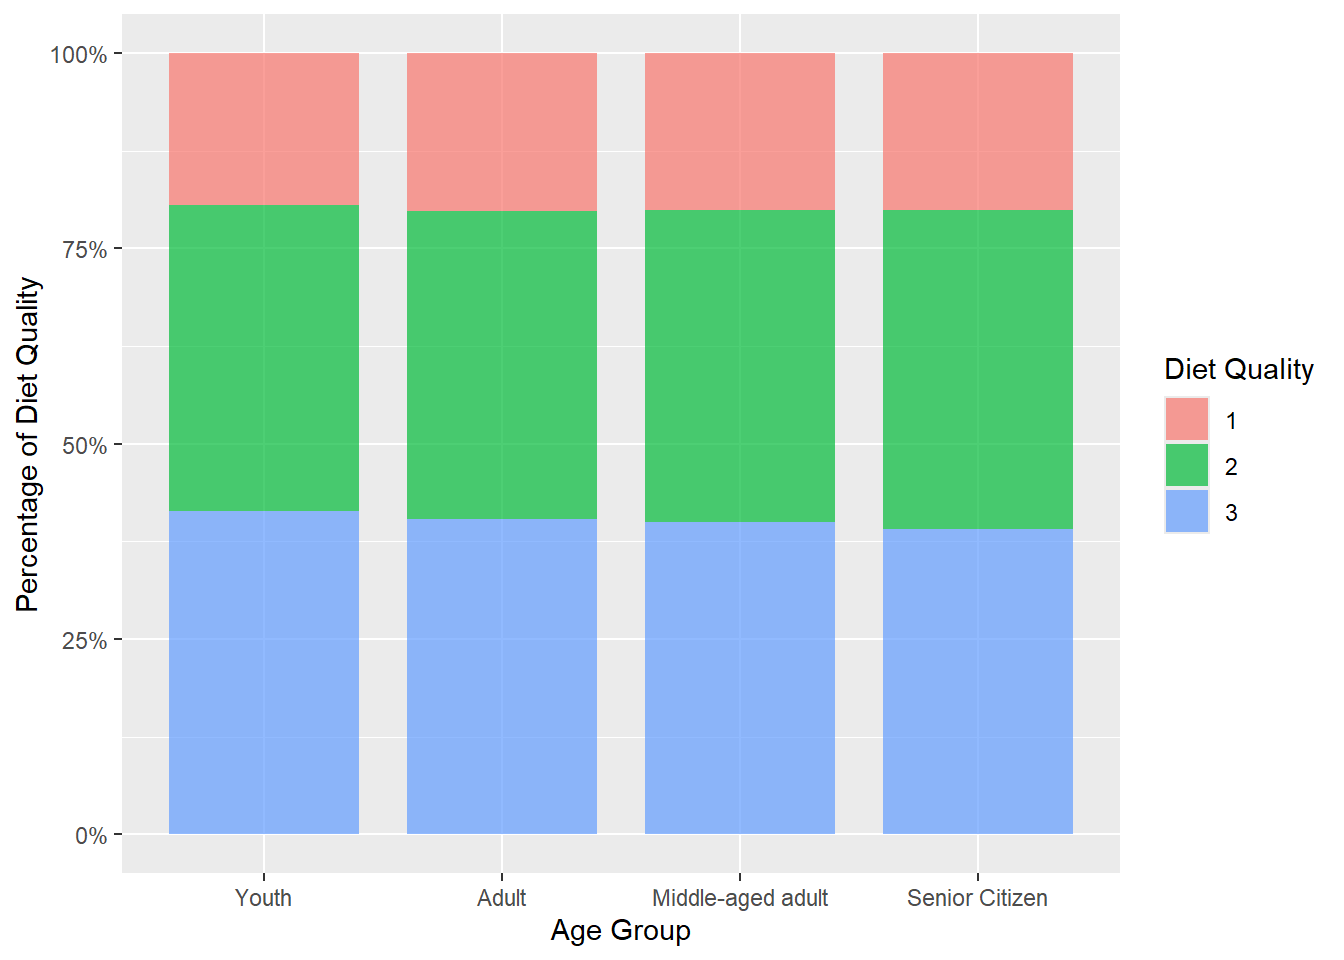
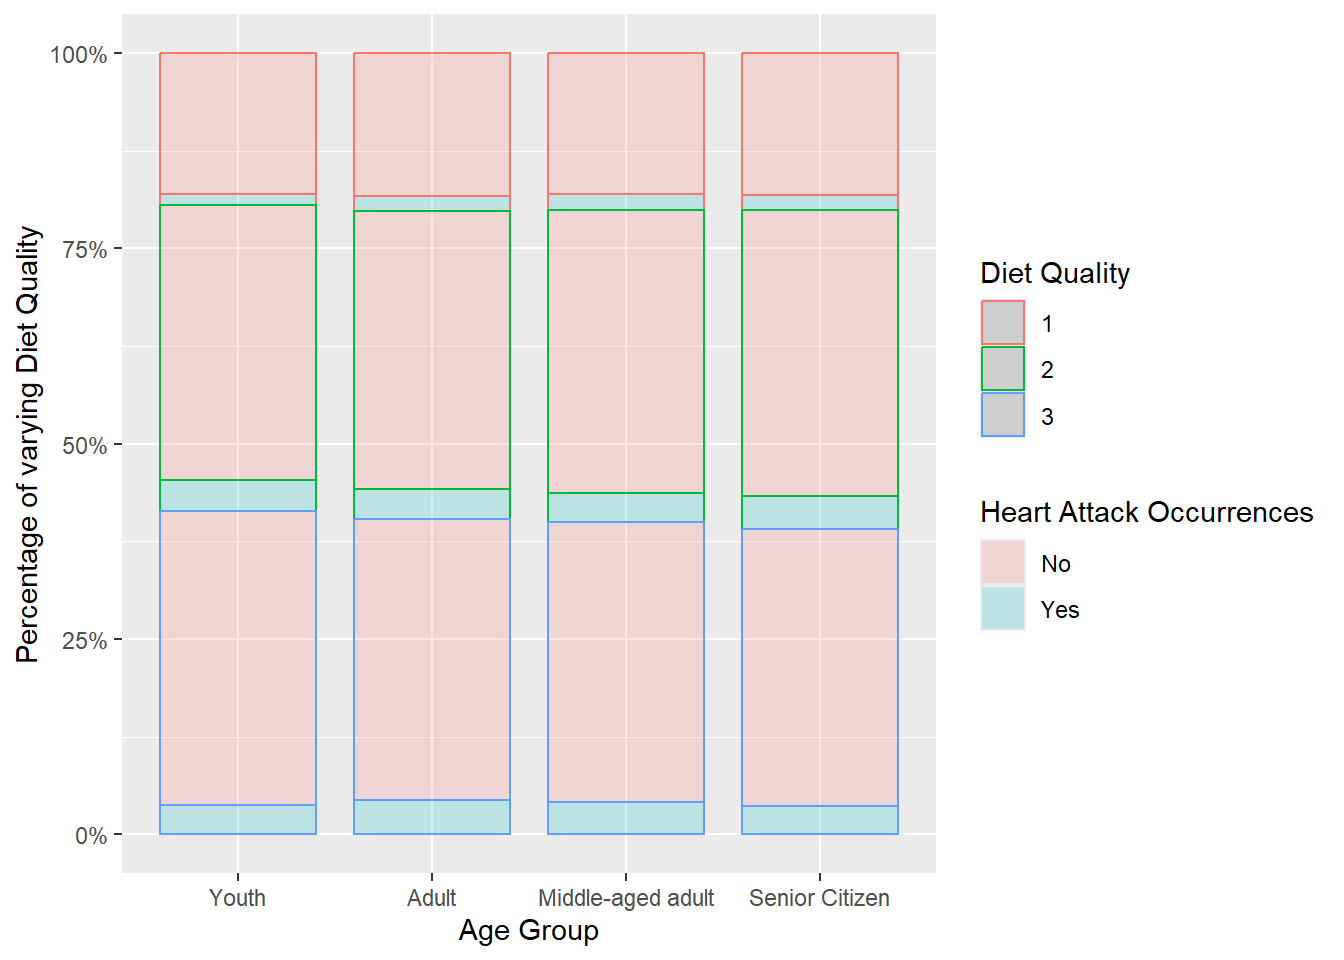
take home exercise 1

diff --git a/_site/Take-Home_Exercise/Take-Home_Exercise_1/Take-Home_Exercise_1.html b/_site/Take-Home_Exercise/Take-Home_Exercise_1/Take-Home_Exercise_1.html
@@ -829,10 +829,10 @@ See codes
 <div class="tab-content">
 <div id="tabset-3-1" class="tab-pane active" role="tabpanel" aria-labelledby="tabset-3-1-tab">
 <div class="cell">
-<div class="sourceCode cell-code" id="cb18"><pre class="sourceCode r code-with-copy"><code class="sourceCode r"><span id="cb18-1"><a href="#cb18-1" aria-hidden="true" tabindex="-1"></a><span class="fu">ggplot</span>(<span class="at">data=</span>binned_data, <span class="fu">aes</span>(<span class="at">x=</span>Age_Group, <span class="at">fill=</span>Smoking_History)) <span class="sc">+</span></span>
-<span id="cb18-2"><a href="#cb18-2" aria-hidden="true" tabindex="-1"></a>  <span class="fu">geom_bar</span>(<span class="at">alpha =</span> <span class="fl">0.7</span>, <span class="at">width=</span> <span class="fl">0.8</span>, <span class="at">stat=</span><span class="st">"count"</span>, <span class="at">position=</span><span class="st">"fill"</span>) <span class="sc">+</span></span>
+<div class="sourceCode cell-code" id="cb18"><pre class="sourceCode r code-with-copy"><code class="sourceCode r"><span id="cb18-1"><a href="#cb18-1" aria-hidden="true" tabindex="-1"></a><span class="fu">ggplot</span>(<span class="at">data=</span>binned_data, <span class="fu">aes</span>(<span class="at">x=</span>Age_Group, <span class="at">color=</span>Smoking_History, <span class="at">fill=</span>Heart_Attack_Occurrence)) <span class="sc">+</span></span>
+<span id="cb18-2"><a href="#cb18-2" aria-hidden="true" tabindex="-1"></a>  <span class="fu">geom_bar</span>(<span class="at">alpha =</span> <span class="fl">0.2</span>, <span class="at">width=</span> <span class="fl">0.8</span>, <span class="at">stat=</span><span class="st">"count"</span>, <span class="at">position=</span><span class="st">"fill"</span>) <span class="sc">+</span></span>
 <span id="cb18-3"><a href="#cb18-3" aria-hidden="true" tabindex="-1"></a>  <span class="fu">scale_y_continuous</span>(<span class="at">labels =</span> scales<span class="sc">::</span>percent) <span class="sc">+</span> <span class="fu">xlab</span>(<span class="st">"Age Group"</span>) <span class="sc">+</span> </span>
-<span id="cb18-4"><a href="#cb18-4" aria-hidden="true" tabindex="-1"></a>  <span class="fu">ylab</span>(<span class="st">"Percentage of Smokers"</span>) <span class="sc">+</span> <span class="fu">labs</span>(<span class="at">fill=</span><span class="st">"Smoker"</span>)</span></code><button title="Copy to Clipboard" class="code-copy-button"><i class="bi"></i></button></pre></div>
+<span id="cb18-4"><a href="#cb18-4" aria-hidden="true" tabindex="-1"></a>  <span class="fu">ylab</span>(<span class="st">"Percentage with Smoking History"</span>) <span class="sc">+</span> <span class="fu">labs</span>(<span class="at">color=</span><span class="st">"Smoking_History"</span>, <span class="at">fill=</span><span class="st">"Heart Attack Occurrences"</span>)</span></code><button title="Copy to Clipboard" class="code-copy-button"><i class="bi"></i></button></pre></div>
 <div class="cell-output-display">
 <div>
 <figure class="figure">
@@ -844,10 +844,10 @@ See codes
 </div>
 <div id="tabset-3-2" class="tab-pane" role="tabpanel" aria-labelledby="tabset-3-2-tab">
 <div class="cell">
-<div class="sourceCode cell-code" id="cb19"><pre class="sourceCode r code-with-copy"><code class="sourceCode r"><span id="cb19-1"><a href="#cb19-1" aria-hidden="true" tabindex="-1"></a><span class="fu">ggplot</span>(<span class="at">data=</span>binned_data, <span class="fu">aes</span>(<span class="at">x=</span>Age_Group, <span class="at">fill=</span>Physical_Activity)) <span class="sc">+</span></span>
-<span id="cb19-2"><a href="#cb19-2" aria-hidden="true" tabindex="-1"></a>  <span class="fu">geom_bar</span>(<span class="at">alpha =</span> <span class="fl">0.7</span>, <span class="at">width=</span> <span class="fl">0.8</span>, <span class="at">stat=</span><span class="st">"count"</span>, <span class="at">position=</span><span class="st">"fill"</span>) <span class="sc">+</span></span>
+<div class="sourceCode cell-code" id="cb19"><pre class="sourceCode r code-with-copy"><code class="sourceCode r"><span id="cb19-1"><a href="#cb19-1" aria-hidden="true" tabindex="-1"></a><span class="fu">ggplot</span>(<span class="at">data=</span>binned_data, <span class="fu">aes</span>(<span class="at">x=</span>Age_Group, <span class="at">color=</span>Physical_Activity, <span class="at">fill=</span>Heart_Attack_Occurrence)) <span class="sc">+</span></span>
+<span id="cb19-2"><a href="#cb19-2" aria-hidden="true" tabindex="-1"></a>  <span class="fu">geom_bar</span>(<span class="at">alpha =</span> <span class="fl">0.2</span>, <span class="at">width=</span> <span class="fl">0.8</span>, <span class="at">stat=</span><span class="st">"count"</span>, <span class="at">position=</span><span class="st">"fill"</span>) <span class="sc">+</span></span>
 <span id="cb19-3"><a href="#cb19-3" aria-hidden="true" tabindex="-1"></a>  <span class="fu">scale_y_continuous</span>(<span class="at">labels =</span> scales<span class="sc">::</span>percent) <span class="sc">+</span> <span class="fu">xlab</span>(<span class="st">"Age Group"</span>) <span class="sc">+</span> </span>
-<span id="cb19-4"><a href="#cb19-4" aria-hidden="true" tabindex="-1"></a>  <span class="fu">ylab</span>(<span class="st">"Percentage of Physical Activity level"</span>) <span class="sc">+</span> <span class="fu">labs</span>(<span class="at">fill=</span><span class="st">"Level of Physical Activity"</span>)</span></code><button title="Copy to Clipboard" class="code-copy-button"><i class="bi"></i></button></pre></div>
+<span id="cb19-4"><a href="#cb19-4" aria-hidden="true" tabindex="-1"></a>  <span class="fu">ylab</span>(<span class="st">"Percentage varying levels of Physical_Activity"</span>) <span class="sc">+</span> <span class="fu">labs</span>(<span class="at">color=</span><span class="st">"Physical_Activity"</span>, <span class="at">fill=</span><span class="st">"Heart Attack Occurrences"</span>)</span></code><button title="Copy to Clipboard" class="code-copy-button"><i class="bi"></i></button></pre></div>
 <div class="cell-output-display">
 <div>
 <figure class="figure">
@@ -859,10 +859,10 @@ See codes
 </div>
 <div id="tabset-3-3" class="tab-pane" role="tabpanel" aria-labelledby="tabset-3-3-tab">
 <div class="cell">
-<div class="sourceCode cell-code" id="cb20"><pre class="sourceCode r code-with-copy"><code class="sourceCode r"><span id="cb20-1"><a href="#cb20-1" aria-hidden="true" tabindex="-1"></a><span class="fu">ggplot</span>(<span class="at">data=</span>binned_data, <span class="fu">aes</span>(<span class="at">x=</span>Age_Group, <span class="at">fill=</span>Diet_Quality)) <span class="sc">+</span></span>
-<span id="cb20-2"><a href="#cb20-2" aria-hidden="true" tabindex="-1"></a>  <span class="fu">geom_bar</span>(<span class="at">alpha =</span> <span class="fl">0.7</span>, <span class="at">width=</span> <span class="fl">0.8</span>, <span class="at">stat=</span><span class="st">"count"</span>, <span class="at">position=</span><span class="st">"fill"</span>) <span class="sc">+</span></span>
+<div class="sourceCode cell-code" id="cb20"><pre class="sourceCode r code-with-copy"><code class="sourceCode r"><span id="cb20-1"><a href="#cb20-1" aria-hidden="true" tabindex="-1"></a><span class="fu">ggplot</span>(<span class="at">data=</span>binned_data, <span class="fu">aes</span>(<span class="at">x=</span>Age_Group, <span class="at">color=</span>Diet_Quality, <span class="at">fill=</span>Heart_Attack_Occurrence)) <span class="sc">+</span></span>
+<span id="cb20-2"><a href="#cb20-2" aria-hidden="true" tabindex="-1"></a>  <span class="fu">geom_bar</span>(<span class="at">alpha =</span> <span class="fl">0.2</span>, <span class="at">width=</span> <span class="fl">0.8</span>, <span class="at">stat=</span><span class="st">"count"</span>, <span class="at">position=</span><span class="st">"fill"</span>) <span class="sc">+</span></span>
 <span id="cb20-3"><a href="#cb20-3" aria-hidden="true" tabindex="-1"></a>  <span class="fu">scale_y_continuous</span>(<span class="at">labels =</span> scales<span class="sc">::</span>percent) <span class="sc">+</span> <span class="fu">xlab</span>(<span class="st">"Age Group"</span>) <span class="sc">+</span> </span>
-<span id="cb20-4"><a href="#cb20-4" aria-hidden="true" tabindex="-1"></a>  <span class="fu">ylab</span>(<span class="st">"Percentage of Diet Quality"</span>) <span class="sc">+</span> <span class="fu">labs</span>(<span class="at">fill=</span><span class="st">"Diet Quality"</span>)</span></code><button title="Copy to Clipboard" class="code-copy-button"><i class="bi"></i></button></pre></div>
+<span id="cb20-4"><a href="#cb20-4" aria-hidden="true" tabindex="-1"></a>  <span class="fu">ylab</span>(<span class="st">"Percentage of varying Diet Quality"</span>) <span class="sc">+</span> <span class="fu">labs</span>(<span class="at">color=</span><span class="st">"Diet Quality"</span>, <span class="at">fill=</span><span class="st">"Heart Attack Occurrences"</span>)</span></code><button title="Copy to Clipboard" class="code-copy-button"><i class="bi"></i></button></pre></div>
 <div class="cell-output-display">
 <div>
 <figure class="figure">
@@ -874,10 +874,10 @@ See codes
 </div>
 <div id="tabset-3-4" class="tab-pane" role="tabpanel" aria-labelledby="tabset-3-4-tab">
 <div class="cell">
-<div class="sourceCode cell-code" id="cb21"><pre class="sourceCode r code-with-copy"><code class="sourceCode r"><span id="cb21-1"><a href="#cb21-1" aria-hidden="true" tabindex="-1"></a><span class="fu">ggplot</span>(<span class="at">data=</span>binned_data, <span class="fu">aes</span>(<span class="at">x=</span>Age_Group, <span class="at">fill=</span>Alcohol_Consumption)) <span class="sc">+</span></span>
-<span id="cb21-2"><a href="#cb21-2" aria-hidden="true" tabindex="-1"></a>  <span class="fu">geom_bar</span>(<span class="at">alpha =</span> <span class="fl">0.7</span>, <span class="at">width=</span> <span class="fl">0.8</span>, <span class="at">stat=</span><span class="st">"count"</span>, <span class="at">position=</span><span class="st">"fill"</span>) <span class="sc">+</span></span>
+<div class="sourceCode cell-code" id="cb21"><pre class="sourceCode r code-with-copy"><code class="sourceCode r"><span id="cb21-1"><a href="#cb21-1" aria-hidden="true" tabindex="-1"></a><span class="fu">ggplot</span>(<span class="at">data=</span>binned_data, <span class="fu">aes</span>(<span class="at">x=</span>Age_Group, <span class="at">color=</span>Alcohol_Consumption, <span class="at">fill=</span>Heart_Attack_Occurrence)) <span class="sc">+</span></span>
+<span id="cb21-2"><a href="#cb21-2" aria-hidden="true" tabindex="-1"></a>  <span class="fu">geom_bar</span>(<span class="at">alpha =</span> <span class="fl">0.2</span>, <span class="at">width=</span> <span class="fl">0.8</span>, <span class="at">stat=</span><span class="st">"count"</span>, <span class="at">position=</span><span class="st">"fill"</span>) <span class="sc">+</span></span>
 <span id="cb21-3"><a href="#cb21-3" aria-hidden="true" tabindex="-1"></a>  <span class="fu">scale_y_continuous</span>(<span class="at">labels =</span> scales<span class="sc">::</span>percent) <span class="sc">+</span> <span class="fu">xlab</span>(<span class="st">"Age Group"</span>) <span class="sc">+</span> </span>
-<span id="cb21-4"><a href="#cb21-4" aria-hidden="true" tabindex="-1"></a>  <span class="fu">ylab</span>(<span class="st">"Percentage of Alcohol_Consumption"</span>) <span class="sc">+</span> <span class="fu">labs</span>(<span class="at">fill=</span><span class="st">"Alcohol_Consumption"</span>)</span></code><button title="Copy to Clipboard" class="code-copy-button"><i class="bi"></i></button></pre></div>
+<span id="cb21-4"><a href="#cb21-4" aria-hidden="true" tabindex="-1"></a>  <span class="fu">ylab</span>(<span class="st">"Percentage of varying Alcohol_Consumption"</span>) <span class="sc">+</span> <span class="fu">labs</span>(<span class="at">color=</span><span class="st">"Alcohol_Consumption"</span>, <span class="at">fill=</span><span class="st">"Heart Attack Occurrences"</span>)</span></code><button title="Copy to Clipboard" class="code-copy-button"><i class="bi"></i></button></pre></div>
 <div class="cell-output-display">
 <div>
 <figure class="figure">
